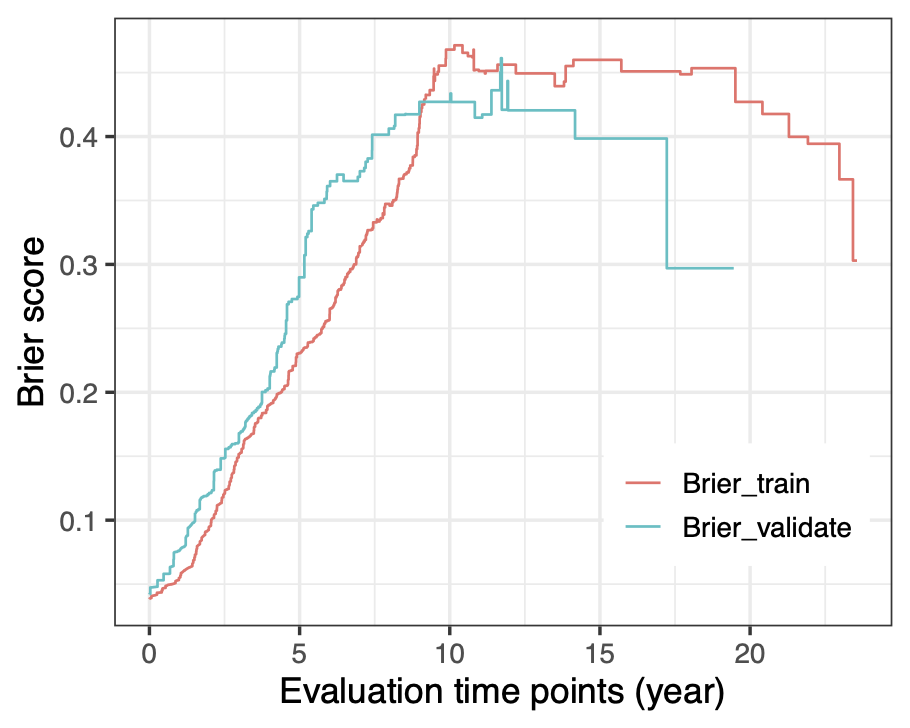
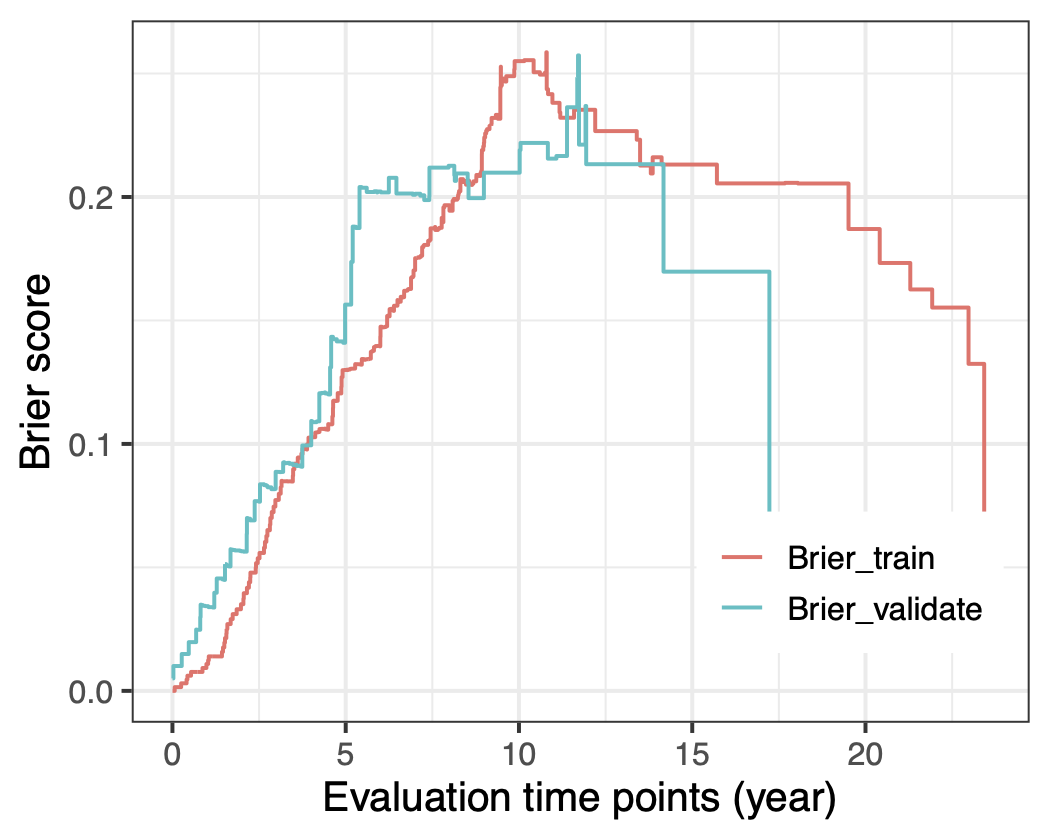
fix input issue on `riskRegression::Score()`

diff --git a/docs/survomics.html b/docs/survomics.html
@@ -6,7 +6,7 @@
 
 <meta name="viewport" content="width=device-width, initial-scale=1.0, user-scalable=yes">
 
-<meta name="dcterms.date" content="2025-03-12">
+<meta name="dcterms.date" content="2026-05-06">
 
 <title>Survive with Omics - Supplemental information for ‘Tutorial on survival modeling with applications to omics data’</title>
 <style>
@@ -267,7 +267,7 @@ div.csl-indent {
     <div>
     <div class="quarto-title-meta-heading">UPDATED</div>
     <div class="quarto-title-meta-contents">
-      <p class="date">March 12, 2025</p>
+      <p class="date">May 6, 2026</p>
     </div>
   </div>
   
@@ -1315,38 +1315,40 @@ Survival prediction in Cox models
 <span id="cb53-7"><a href="#cb53-7" aria-hidden="true" tabindex="-1"></a>y_validate_surv <span class="ot">&lt;-</span> <span class="fu">Surv</span>(y_validate[, <span class="st">"time"</span>], y_validate[, <span class="st">"status"</span>])</span>
 <span id="cb53-8"><a href="#cb53-8" aria-hidden="true" tabindex="-1"></a>utime_train <span class="ot">&lt;-</span> <span class="sc">!</span><span class="fu">duplicated</span>(y_train[, <span class="st">"time"</span>])</span>
 <span id="cb53-9"><a href="#cb53-9" aria-hidden="true" tabindex="-1"></a>utime_validate <span class="ot">&lt;-</span> <span class="sc">!</span><span class="fu">duplicated</span>(y_validate[, <span class="st">"time"</span>])</span>
-<span id="cb53-10"><a href="#cb53-10" aria-hidden="true" tabindex="-1"></a></span>
-<span id="cb53-11"><a href="#cb53-11" aria-hidden="true" tabindex="-1"></a><span class="fu">set.seed</span>(<span class="dv">123</span>)</span>
-<span id="cb53-12"><a href="#cb53-12" aria-hidden="true" tabindex="-1"></a>cvfit <span class="ot">&lt;-</span> <span class="fu">cv.glmnet</span>(x_train, y_train_surv, <span class="at">family =</span> <span class="st">"cox"</span>, <span class="at">nfolds =</span> <span class="dv">5</span>, <span class="at">penalty.factor =</span> pf)</span>
-<span id="cb53-13"><a href="#cb53-13" aria-hidden="true" tabindex="-1"></a></span>
-<span id="cb53-14"><a href="#cb53-14" aria-hidden="true" tabindex="-1"></a><span class="co"># calculate predicted event probabilities</span></span>
-<span id="cb53-15"><a href="#cb53-15" aria-hidden="true" tabindex="-1"></a>sfit0 <span class="ot">&lt;-</span> survival<span class="sc">::</span><span class="fu">survfit</span>(cvfit, <span class="at">s =</span> cvfit<span class="sc">$</span>lambda.min, <span class="at">x =</span> x_train, <span class="at">y =</span> y_train_surv, <span class="at">newx =</span> x_train[utime_train, ])</span>
-<span id="cb53-16"><a href="#cb53-16" aria-hidden="true" tabindex="-1"></a>Rt_train <span class="ot">&lt;-</span> <span class="dv">1</span> <span class="sc">-</span> <span class="fu">diag</span>(<span class="fu">summary</span>(sfit0, <span class="at">times =</span> y_train[utime_train, <span class="st">"time"</span>])<span class="sc">$</span>surv)</span>
-<span id="cb53-17"><a href="#cb53-17" aria-hidden="true" tabindex="-1"></a>sfit <span class="ot">&lt;-</span> survival<span class="sc">::</span><span class="fu">survfit</span>(cvfit, <span class="at">s =</span> cvfit<span class="sc">$</span>lambda.min, <span class="at">x =</span> x_train, <span class="at">y =</span> y_train_surv, <span class="at">newx =</span> x_validate[utime_validate, ])</span>
-<span id="cb53-18"><a href="#cb53-18" aria-hidden="true" tabindex="-1"></a>Rt_validate <span class="ot">&lt;-</span> <span class="dv">1</span> <span class="sc">-</span> <span class="fu">diag</span>(<span class="fu">summary</span>(sfit, <span class="at">times =</span> y_validate[utime_validate, <span class="st">"time"</span>])<span class="sc">$</span>surv)</span>
-<span id="cb53-19"><a href="#cb53-19" aria-hidden="true" tabindex="-1"></a></span>
-<span id="cb53-20"><a href="#cb53-20" aria-hidden="true" tabindex="-1"></a><span class="co"># calculate Brier scores based on both training and validation data</span></span>
-<span id="cb53-21"><a href="#cb53-21" aria-hidden="true" tabindex="-1"></a>Brier_train <span class="ot">&lt;-</span> riskRegression<span class="sc">::</span><span class="fu">Score</span>(<span class="fu">list</span>(<span class="st">"Brier_train"</span> <span class="ot">=</span> Rt_train),</span>
-<span id="cb53-22"><a href="#cb53-22" aria-hidden="true" tabindex="-1"></a>  <span class="at">formula =</span> <span class="fu">Surv</span>(time, status) <span class="sc">~</span> <span class="dv">1</span>,</span>
-<span id="cb53-23"><a href="#cb53-23" aria-hidden="true" tabindex="-1"></a>  <span class="at">data =</span> <span class="fu">data.frame</span>(y_train[utime_train, ]),</span>
-<span id="cb53-24"><a href="#cb53-24" aria-hidden="true" tabindex="-1"></a>  <span class="at">conf.int =</span> <span class="cn">FALSE</span>, <span class="at">null.model =</span> <span class="cn">FALSE</span>,</span>
-<span id="cb53-25"><a href="#cb53-25" aria-hidden="true" tabindex="-1"></a>  <span class="at">metrics =</span> <span class="st">"brier"</span>, <span class="at">summary =</span> <span class="st">"ibs"</span>,</span>
-<span id="cb53-26"><a href="#cb53-26" aria-hidden="true" tabindex="-1"></a>  <span class="at">times =</span> y_train[utime_train, <span class="st">"time"</span>]</span>
-<span id="cb53-27"><a href="#cb53-27" aria-hidden="true" tabindex="-1"></a>)<span class="sc">$</span>Brier<span class="sc">$</span>score</span>
-<span id="cb53-28"><a href="#cb53-28" aria-hidden="true" tabindex="-1"></a>Brier_validate <span class="ot">&lt;-</span> riskRegression<span class="sc">::</span><span class="fu">Score</span>(<span class="fu">list</span>(<span class="st">"Brier_validate"</span> <span class="ot">=</span> Rt_validate),</span>
-<span id="cb53-29"><a href="#cb53-29" aria-hidden="true" tabindex="-1"></a>  <span class="at">formula =</span> <span class="fu">Surv</span>(time, status) <span class="sc">~</span> <span class="dv">1</span>,</span>
-<span id="cb53-30"><a href="#cb53-30" aria-hidden="true" tabindex="-1"></a>  <span class="at">data =</span> <span class="fu">data.frame</span>(y_validate[utime_validate, ]),</span>
-<span id="cb53-31"><a href="#cb53-31" aria-hidden="true" tabindex="-1"></a>  <span class="at">conf.int =</span> <span class="cn">FALSE</span>, <span class="at">null.model =</span> <span class="cn">FALSE</span>,</span>
-<span id="cb53-32"><a href="#cb53-32" aria-hidden="true" tabindex="-1"></a>  <span class="at">metrics =</span> <span class="st">"brier"</span>, <span class="at">summary =</span> <span class="st">"ibs"</span>,</span>
-<span id="cb53-33"><a href="#cb53-33" aria-hidden="true" tabindex="-1"></a>  <span class="at">times =</span> y_validate[utime_validate, <span class="st">"time"</span>]</span>
-<span id="cb53-34"><a href="#cb53-34" aria-hidden="true" tabindex="-1"></a>)<span class="sc">$</span>Brier<span class="sc">$</span>score</span>
-<span id="cb53-35"><a href="#cb53-35" aria-hidden="true" tabindex="-1"></a>Brier_score <span class="ot">&lt;-</span> <span class="fu">rbind</span>(Brier_train, Brier_validate)</span>
-<span id="cb53-36"><a href="#cb53-36" aria-hidden="true" tabindex="-1"></a></span>
-<span id="cb53-37"><a href="#cb53-37" aria-hidden="true" tabindex="-1"></a><span class="fu">ggplot</span>(Brier_score, <span class="fu">aes</span>(times, Brier, <span class="at">group =</span> model, <span class="at">color =</span> model)) <span class="sc">+</span></span>
-<span id="cb53-38"><a href="#cb53-38" aria-hidden="true" tabindex="-1"></a>  <span class="fu">xlab</span>(<span class="st">"Evaluation time points (year)"</span>) <span class="sc">+</span></span>
-<span id="cb53-39"><a href="#cb53-39" aria-hidden="true" tabindex="-1"></a>  <span class="fu">ylab</span>(<span class="st">"Brier score"</span>) <span class="sc">+</span></span>
-<span id="cb53-40"><a href="#cb53-40" aria-hidden="true" tabindex="-1"></a>  <span class="fu">geom_step</span>(<span class="at">direction =</span> <span class="st">"vh"</span>) <span class="sc">+</span></span>
-<span id="cb53-41"><a href="#cb53-41" aria-hidden="true" tabindex="-1"></a>  <span class="fu">theme</span>(<span class="at">legend.position =</span> <span class="fu">c</span>(<span class="fl">0.15</span>, <span class="fl">0.88</span>), <span class="at">legend.title =</span> <span class="fu">element_blank</span>())</span></code><button title="Copy to Clipboard" class="code-copy-button"><i class="bi"></i></button></pre></div>
+<span id="cb53-10"><a href="#cb53-10" aria-hidden="true" tabindex="-1"></a>eval_times_train <span class="ot">&lt;-</span> <span class="fu">sort</span>(y_train[utime_train, <span class="st">"time"</span>])</span>
+<span id="cb53-11"><a href="#cb53-11" aria-hidden="true" tabindex="-1"></a>eval_times_validate <span class="ot">&lt;-</span> <span class="fu">sort</span>(y_validate[utime_validate, <span class="st">"time"</span>])</span>
+<span id="cb53-12"><a href="#cb53-12" aria-hidden="true" tabindex="-1"></a></span>
+<span id="cb53-13"><a href="#cb53-13" aria-hidden="true" tabindex="-1"></a><span class="fu">set.seed</span>(<span class="dv">123</span>)</span>
+<span id="cb53-14"><a href="#cb53-14" aria-hidden="true" tabindex="-1"></a>cvfit <span class="ot">&lt;-</span> <span class="fu">cv.glmnet</span>(x_train, y_train_surv, <span class="at">family =</span> <span class="st">"cox"</span>, <span class="at">nfolds =</span> <span class="dv">5</span>, <span class="at">penalty.factor =</span> pf)</span>
+<span id="cb53-15"><a href="#cb53-15" aria-hidden="true" tabindex="-1"></a></span>
+<span id="cb53-16"><a href="#cb53-16" aria-hidden="true" tabindex="-1"></a><span class="co"># calculate predicted event probabilities</span></span>
+<span id="cb53-17"><a href="#cb53-17" aria-hidden="true" tabindex="-1"></a>sfit0 <span class="ot">&lt;-</span> survival<span class="sc">::</span><span class="fu">survfit</span>(cvfit, <span class="at">s =</span> cvfit<span class="sc">$</span>lambda.min, <span class="at">x =</span> x_train, <span class="at">y =</span> y_train_surv, <span class="at">newx =</span> x_train[utime_train, ])</span>
+<span id="cb53-18"><a href="#cb53-18" aria-hidden="true" tabindex="-1"></a>Rt_train <span class="ot">&lt;-</span> <span class="dv">1</span> <span class="sc">-</span> <span class="fu">t</span>(<span class="fu">summary</span>(sfit0, <span class="at">times =</span> eval_times_train)<span class="sc">$</span>surv)</span>
+<span id="cb53-19"><a href="#cb53-19" aria-hidden="true" tabindex="-1"></a>sfit <span class="ot">&lt;-</span> survival<span class="sc">::</span><span class="fu">survfit</span>(cvfit, <span class="at">s =</span> cvfit<span class="sc">$</span>lambda.min, <span class="at">x =</span> x_train, <span class="at">y =</span> y_train_surv, <span class="at">newx =</span> x_validate[utime_validate, ])</span>
+<span id="cb53-20"><a href="#cb53-20" aria-hidden="true" tabindex="-1"></a>Rt_validate <span class="ot">&lt;-</span> <span class="dv">1</span> <span class="sc">-</span> <span class="fu">t</span>(<span class="fu">summary</span>(sfit, <span class="at">times =</span> eval_times_validate)<span class="sc">$</span>surv)</span>
+<span id="cb53-21"><a href="#cb53-21" aria-hidden="true" tabindex="-1"></a></span>
+<span id="cb53-22"><a href="#cb53-22" aria-hidden="true" tabindex="-1"></a><span class="co"># calculate Brier scores based on both training and validation data</span></span>
+<span id="cb53-23"><a href="#cb53-23" aria-hidden="true" tabindex="-1"></a>Brier_train <span class="ot">&lt;-</span> riskRegression<span class="sc">::</span><span class="fu">Score</span>(<span class="fu">list</span>(<span class="st">"Brier_train"</span> <span class="ot">=</span> Rt_train),</span>
+<span id="cb53-24"><a href="#cb53-24" aria-hidden="true" tabindex="-1"></a>  <span class="at">formula =</span> <span class="fu">Surv</span>(time, status) <span class="sc">~</span> <span class="dv">1</span>,</span>
+<span id="cb53-25"><a href="#cb53-25" aria-hidden="true" tabindex="-1"></a>  <span class="at">data =</span> <span class="fu">data.frame</span>(y_train[utime_train, ]),</span>
+<span id="cb53-26"><a href="#cb53-26" aria-hidden="true" tabindex="-1"></a>  <span class="at">conf.int =</span> <span class="cn">FALSE</span>, <span class="at">null.model =</span> <span class="cn">FALSE</span>,</span>
+<span id="cb53-27"><a href="#cb53-27" aria-hidden="true" tabindex="-1"></a>  <span class="at">metrics =</span> <span class="st">"brier"</span>, <span class="at">summary =</span> <span class="st">"ibs"</span>,</span>
+<span id="cb53-28"><a href="#cb53-28" aria-hidden="true" tabindex="-1"></a>  <span class="at">times =</span> eval_times_train</span>
+<span id="cb53-29"><a href="#cb53-29" aria-hidden="true" tabindex="-1"></a>)<span class="sc">$</span>Brier<span class="sc">$</span>score</span>
+<span id="cb53-30"><a href="#cb53-30" aria-hidden="true" tabindex="-1"></a>Brier_validate <span class="ot">&lt;-</span> riskRegression<span class="sc">::</span><span class="fu">Score</span>(<span class="fu">list</span>(<span class="st">"Brier_validate"</span> <span class="ot">=</span> Rt_validate),</span>
+<span id="cb53-31"><a href="#cb53-31" aria-hidden="true" tabindex="-1"></a>  <span class="at">formula =</span> <span class="fu">Surv</span>(time, status) <span class="sc">~</span> <span class="dv">1</span>,</span>
+<span id="cb53-32"><a href="#cb53-32" aria-hidden="true" tabindex="-1"></a>  <span class="at">data =</span> <span class="fu">data.frame</span>(y_validate[utime_validate, ]),</span>
+<span id="cb53-33"><a href="#cb53-33" aria-hidden="true" tabindex="-1"></a>  <span class="at">conf.int =</span> <span class="cn">FALSE</span>, <span class="at">null.model =</span> <span class="cn">FALSE</span>,</span>
+<span id="cb53-34"><a href="#cb53-34" aria-hidden="true" tabindex="-1"></a>  <span class="at">metrics =</span> <span class="st">"brier"</span>, <span class="at">summary =</span> <span class="st">"ibs"</span>,</span>
+<span id="cb53-35"><a href="#cb53-35" aria-hidden="true" tabindex="-1"></a>  <span class="at">times =</span> eval_times_validate</span>
+<span id="cb53-36"><a href="#cb53-36" aria-hidden="true" tabindex="-1"></a>)<span class="sc">$</span>Brier<span class="sc">$</span>score</span>
+<span id="cb53-37"><a href="#cb53-37" aria-hidden="true" tabindex="-1"></a>Brier_score <span class="ot">&lt;-</span> <span class="fu">rbind</span>(Brier_train, Brier_validate)</span>
+<span id="cb53-38"><a href="#cb53-38" aria-hidden="true" tabindex="-1"></a></span>
+<span id="cb53-39"><a href="#cb53-39" aria-hidden="true" tabindex="-1"></a><span class="fu">ggplot</span>(Brier_score, <span class="fu">aes</span>(times, Brier, <span class="at">group =</span> model, <span class="at">color =</span> model)) <span class="sc">+</span></span>
+<span id="cb53-40"><a href="#cb53-40" aria-hidden="true" tabindex="-1"></a>  <span class="fu">xlab</span>(<span class="st">"Evaluation time points (year)"</span>) <span class="sc">+</span></span>
+<span id="cb53-41"><a href="#cb53-41" aria-hidden="true" tabindex="-1"></a>  <span class="fu">ylab</span>(<span class="st">"Brier score"</span>) <span class="sc">+</span></span>
+<span id="cb53-42"><a href="#cb53-42" aria-hidden="true" tabindex="-1"></a>  <span class="fu">geom_step</span>(<span class="at">direction =</span> <span class="st">"vh"</span>) <span class="sc">+</span></span>
+<span id="cb53-43"><a href="#cb53-43" aria-hidden="true" tabindex="-1"></a>  <span class="fu">theme</span>(<span class="at">legend.position =</span> <span class="fu">c</span>(<span class="fl">0.15</span>, <span class="fl">0.88</span>), <span class="at">legend.title =</span> <span class="fu">element_blank</span>())</span></code><button title="Copy to Clipboard" class="code-copy-button"><i class="bi"></i></button></pre></div>
 </div>
 <div class="quarto-figure quarto-figure-left">
 <figure class="figure">
@@ -1360,19 +1362,18 @@ Survival prediction in Cox models
 <div class="cell">
 <div class="sourceCode cell-code" id="cb54"><pre class="sourceCode r code-with-copy"><code class="sourceCode r"><span id="cb54-1"><a href="#cb54-1" aria-hidden="true" tabindex="-1"></a>Brier_validate</span></code><button title="Copy to Clipboard" class="code-copy-button"><i class="bi"></i></button></pre></div>
 </div>
-<pre class="border"><code>              model        times      Brier        IBS
-             &lt;fctr&gt;        &lt;num&gt;      &lt;num&gt;      &lt;num&gt;
-  1: Brier_validate  0.002737851 0.04212694 0.00000000
-  2: Brier_validate  0.027378508 0.04231610 0.03791424
-  3: Brier_validate  0.082135524 0.04736244 0.04084882
-  4: Brier_validate  0.147843943 0.04755453 0.04374376
-  5: Brier_validate  0.213552361 0.04774858 0.04491630
- ---                                                  
-194: Brier_validate 11.920602327 0.42092779 0.29032468
-195: Brier_validate 11.939767283 0.44343782 0.29053431
-196: Brier_validate 14.171115674 0.42048940 0.31461012
-197: Brier_validate 17.226557153 0.39844414 0.33338972
-198: Brier_validate 19.455167693 0.29702857 0.34084178</code></pre>
+<pre class="border"><code>        model        times      Brier        IBS
+       &lt;fctr&gt;        &lt;num&gt;      &lt;num&gt;       &lt;num&gt;
+Brier_validate  0.002737851 0.005050505 0.000000000 
+Brier_validate  0.027378508 0.005050505 0.004545455 
+Brier_validate  0.082135524 0.010052158 0.004882155 
+Brier_validate  0.147843943 0.010052163 0.007179934 
+Brier_validate  0.213552361 0.010052153 0.008063697 
+Brier_validate  0.268309377 0.010052161 0.008469504 
+Brier_validate  0.470910335 0.014920813 0.009150414 
+Brier_validate  0.654346338 0.019727580 0.010768057 
+Brier_validate  0.684462697 0.019727794 0.011162276 
+Brier_validate  0.698151951 0.024821908 0.011330228 </code></pre>
 <p><br></p>
 </section>
 <section id="uq1" class="level4 unnumbered">
